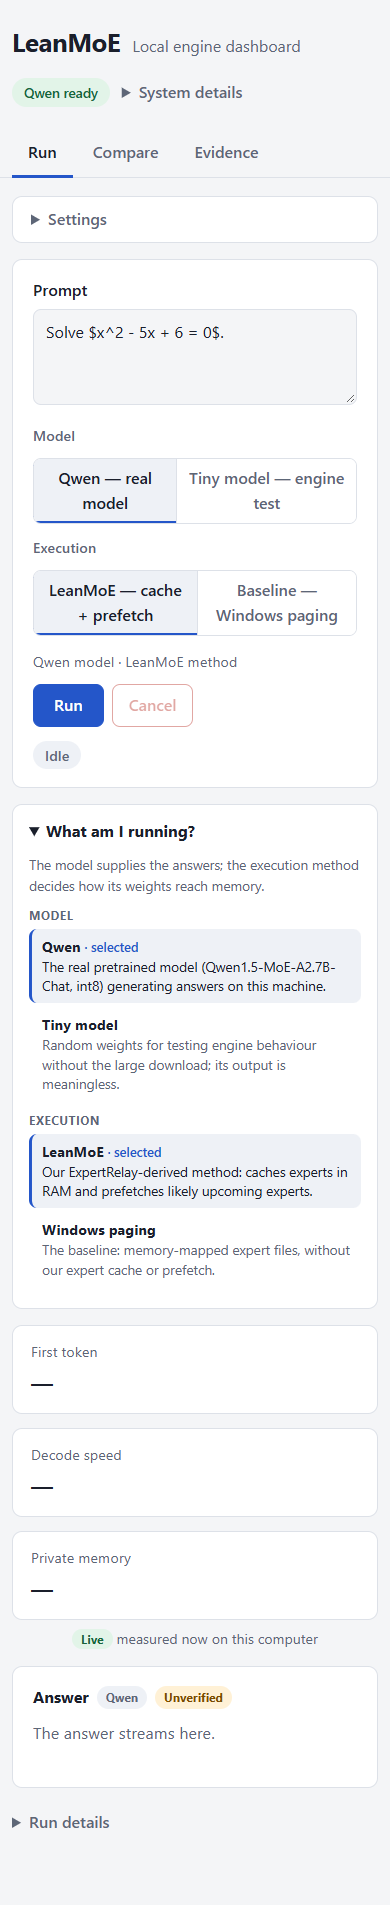
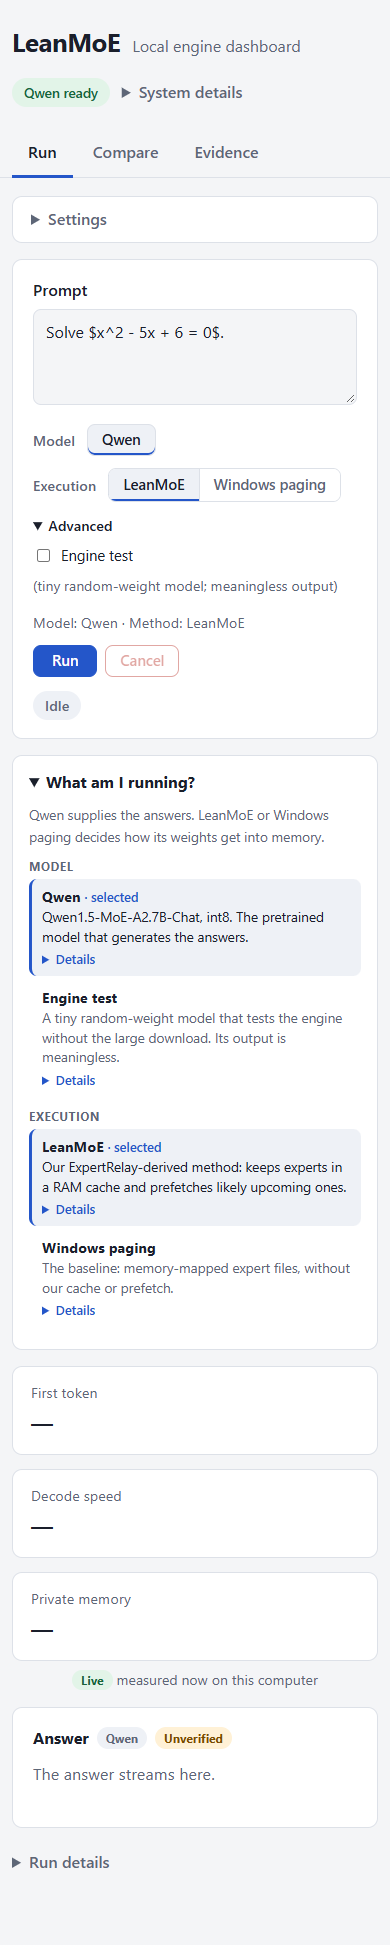
Dashboard: simpler controls; engine test under Advanced; no silent model switch
- Model shown as 'Qwen'; execution as 'LeanMoE' / 'Windows paging'; compare
  cards and button relabelled; all controls one compact height (32 px).
- The tiny model moved to a collapsed Advanced section as 'Engine test';
  when active the model chip, answer badge and confirmed run line say
  'meaningless output'.
- If Qwen's store is missing: 'Qwen not installed' with setup instructions
  and an explicit 'Use engine test instead' button; Run/Compare stay disabled
  until a choice is made. No automatic switching.
- 'What am I running?' keeps one short sentence per choice with expandable
  technical details, and highlights the active model and method.
- Fixed: a display rule overrode the hidden attribute, so the notice showed
  even with Qwen installed.
- Checked in Edge on desktop and phone, with and without the store; Qwen and
  engine-test runs, compare, confirmed lines, no console errors. Screenshots
  updated. Inference, server and evidence unchanged; pytest 157 passed.

diff --git a/src/dashboard/static/index.html b/src/dashboard/static/index.html
@@ -48,17 +48,26 @@
         <textarea id="run-prompt" rows="3" maxlength="4000">Solve $x^2 - 5x + 6 = 0$.</textarea>
         <div class="choice">
           <span class="choice-label">Model</span>
-          <div class="segmented" role="radiogroup" aria-label="Model">
-            <button type="button" role="radio" data-group="source" data-value="real" aria-checked="true">Qwen — real model</button>
-            <button type="button" role="radio" data-group="source" data-value="synthetic" aria-checked="false">Tiny model — engine test</button>
-          </div>
+          <span class="model-chip" id="run-model-chip">Qwen</span>
         </div>
         <div class="choice">
           <span class="choice-label">Execution</span>
           <div class="segmented" role="radiogroup" aria-label="Execution">
-            <button type="button" role="radio" data-group="mode" data-value="cached" aria-checked="true">LeanMoE — cache + prefetch</button>
-            <button type="button" role="radio" data-group="mode" data-value="mmap" aria-checked="false">Baseline — Windows paging</button>
+            <button type="button" role="radio" data-group="mode" data-value="cached" aria-checked="true">LeanMoE</button>
+            <button type="button" role="radio" data-group="mode" data-value="mmap" aria-checked="false">Windows paging</button>
           </div>
+        </div>
+        <details class="details compact advanced" id="run-advanced">
+          <summary>Advanced</summary>
+          <label class="check"><input type="checkbox" id="run-engine-test"> <span class="nowrap">Engine test</span> <span class="hint">(tiny random-weight model; meaningless output)</span></label>
+        </details>
+        <div class="missing" id="run-missing" hidden>
+          <strong>Qwen not installed</strong>
+          <span>The Qwen model store wasn't found on this computer.</span>
+          <details class="details compact"><summary>How to install it</summary>
+            <p class="hint" id="run-missing-detail"></p>
+          </details>
+          <button type="button" class="secondary small" id="run-use-test">Use engine test instead</button>
         </div>
         <div class="controls">
           <span id="run-selection" class="selection">Model: Qwen · Method: LeanMoE</span>
@@ -72,16 +81,28 @@
 
       <details class="area-aside explain" id="explain" open>
         <summary>What am I running?</summary>
-        <p class="explain-lead">The model supplies the answers; the execution method decides how its weights reach memory.</p>
+        <p class="explain-lead">Qwen supplies the answers. LeanMoE or Windows paging decides how its weights get into memory.</p>
         <div class="explain-group">
           <span class="explain-head">Model</span>
-          <div class="explain-item" data-group="source" data-value="real"><strong>Qwen</strong> The real pretrained model (Qwen1.5-MoE-A2.7B-Chat, int8) generating answers on this machine.</div>
-          <div class="explain-item" data-group="source" data-value="synthetic"><strong>Tiny model</strong> Random weights for testing engine behaviour without the large download; its output is meaningless.</div>
+          <div class="explain-item" data-group="source" data-value="real">
+            <strong>Qwen</strong> Qwen1.5-MoE-A2.7B-Chat, int8. The pretrained model that generates the answers.
+            <details class="more"><summary>Details</summary>A mixture-of-experts model: 24 layers of 60 routed experts, 4 used per token, plus a shared expert. Int8 weights: 14.36 GB on disk. Model by the Qwen team (Tongyi Qianwen license).</details>
+          </div>
+          <div class="explain-item" data-group="source" data-value="synthetic">
+            <strong>Engine test</strong> A tiny random-weight model that tests the engine without the large download. Its output is meaningless.
+            <details class="more"><summary>Details</summary>Built in a temporary folder when first used: 3 layers of 8 experts. It runs the same engine code (store reads, cache, prefetch, cancellation) as Qwen. In Advanced.</details>
+          </div>
         </div>
         <div class="explain-group">
           <span class="explain-head">Execution</span>
-          <div class="explain-item" data-group="mode" data-value="cached"><strong>LeanMoE</strong> Our ExpertRelay-derived method: caches experts in RAM and prefetches likely upcoming experts.</div>
-          <div class="explain-item" data-group="mode" data-value="mmap"><strong>Windows paging</strong> The baseline: memory-mapped expert files, without our expert cache or prefetch.</div>
+          <div class="explain-item" data-group="mode" data-value="cached">
+            <strong>LeanMoE</strong> Our ExpertRelay-derived method: keeps experts in a RAM cache and prefetches likely upcoming ones.
+            <details class="more"><summary>Details</summary>Experts are read from the SSD with unbuffered I/O into a fixed-size cache; a predictor starts reading the next layer's likely experts early. The cache can shrink or grow during a run when the memory budget changes.</details>
+          </div>
+          <div class="explain-item" data-group="mode" data-value="mmap">
+            <strong>Windows paging</strong> The baseline: memory-mapped expert files, without our cache or prefetch.
+            <details class="more"><summary>Details</summary>The whole model file is memory-mapped and Windows loads pages on demand, keeping them in its file cache. Speed depends on what is already cached; private memory is low, physical RAM use can be high.</details>
+          </div>
         </div>
       </details>
 
@@ -130,15 +151,24 @@
       <textarea id="cmp-prompt" rows="3" maxlength="4000">What is the capital of France? Answer in one sentence.</textarea>
       <div class="choice">
         <span class="choice-label">Model</span>
-        <div class="segmented" role="radiogroup" aria-label="Model for comparison">
-          <button type="button" role="radio" data-group="cmp-source" data-value="real" aria-checked="true">Qwen — real model</button>
-          <button type="button" role="radio" data-group="cmp-source" data-value="synthetic" aria-checked="false">Tiny model — engine test</button>
-        </div>
+        <span class="model-chip" id="cmp-model-chip">Qwen</span>
       </div>
+      <details class="details compact advanced" id="cmp-advanced">
+          <summary>Advanced</summary>
+          <label class="check"><input type="checkbox" id="cmp-engine-test"> <span class="nowrap">Engine test</span> <span class="hint">(tiny random-weight model; meaningless output)</span></label>
+        </details>
+        <div class="missing" id="cmp-missing" hidden>
+          <strong>Qwen not installed</strong>
+          <span>The Qwen model store wasn't found on this computer.</span>
+          <details class="details compact"><summary>How to install it</summary>
+            <p class="hint" id="cmp-missing-detail"></p>
+          </details>
+          <button type="button" class="secondary small" id="cmp-use-test">Use engine test instead</button>
+        </div>
       <div class="controls">
-        <span class="selection">Runs LeanMoE, then Windows paging, with the same prompt and settings</span>
+        <span class="selection">LeanMoE, then Windows paging, same prompt and settings</span>
         <div class="actions">
-          <button type="button" id="compare" class="primary">Compare modes</button>
+          <button type="button" id="compare" class="primary">Compare</button>
           <button type="button" id="cmp-cancel" class="ghost" disabled>Cancel</button>
         </div>
       </div>
@@ -153,12 +183,12 @@
 
     <div class="side-by-side">
       <div class="card answer" data-run="cached">
-        <div class="answer-head"><strong>LeanMoE — cache + prefetch</strong><span class="badge live">Live</span><span class="badge warn">Unverified</span></div>
+        <div class="answer-head"><strong>LeanMoE</strong><span class="badge live">Live</span><span class="badge warn">Unverified</span></div>
         <div class="mini-metrics"><span>First token <b class="v-ttft">—</b></span><span>Decode <b class="v-decode">—</b></span><span>Private peak <b class="v-mem">—</b></span></div>
         <div class="answer-text"><span class="placeholder">Not run yet.</span></div>
       </div>
       <div class="card answer" data-run="mmap">
-        <div class="answer-head"><strong>Baseline — Windows paging</strong><span class="badge live">Live</span><span class="badge warn">Unverified</span></div>
+        <div class="answer-head"><strong>Windows paging</strong><span class="badge live">Live</span><span class="badge warn">Unverified</span></div>
         <div class="mini-metrics"><span>First token <b class="v-ttft">—</b></span><span>Decode <b class="v-decode">—</b></span><span>Private peak <b class="v-mem">—</b></span></div>
         <div class="answer-text"><span class="placeholder">Not run yet.</span></div>
       </div>

diff --git a/src/dashboard/static/app.js b/src/dashboard/static/app.js
@@ -7,7 +7,7 @@
   const $ = (id) => document.getElementById(id);
   const fmt = (v, d = 2) => (v === null || v === undefined || Number.isNaN(Number(v))) ? "—" : Number(v).toFixed(d);
   const pick = { source: "real", mode: "cached", "cmp-source": "real" };
-  const ui = { status: null, run: null, cmp: null };
+  const ui = { status: null, run: null, cmp: null, qwenMissing: false, busy: false };
 
   // ------------------------------------------------------------ small helpers
 
@@ -106,21 +106,47 @@
     });
   });
 
-  const SOURCE_SHORT = { real: "Qwen", synthetic: "Tiny model" };
+  const SOURCE_SHORT = { real: "Qwen", synthetic: "Engine test" };
   const MODE_SHORT = { cached: "LeanMoE", mmap: "Windows paging" };
-  const SOURCE_LONG = { real: "Qwen — real model (Qwen1.5-MoE-A2.7B-Chat, int8)", synthetic: "Tiny model — engine test (random weights)" };
-  const MODE_LONG = { cached: "LeanMoE — cache + prefetch", mmap: "Baseline — Windows paging (memory-mapped)" };
+  const SOURCE_LONG = { real: "Qwen (Qwen1.5-MoE-A2.7B-Chat, int8)", synthetic: "Engine test (tiny random-weight model; meaningless output)" };
+  const MODE_LONG = { cached: "LeanMoE (expert cache + prefetch)", mmap: "Windows paging (memory-mapped baseline)" };
 
+  // The model is Qwen unless "Engine test" is ticked under Advanced. Nothing switches it automatically.
   function updateSelection() {
+    for (const [p, key] of [["run", "source"], ["cmp", "cmp-source"]]) {
+      const test = $(p + "-engine-test").checked;
+      pick[key] = test ? "synthetic" : "real";
+      const chip = $(p + "-model-chip");
+      chip.textContent = test ? "Engine test · meaningless output" : "Qwen";
+      chip.className = "model-chip" + (test ? " test" : (ui.qwenMissing ? " unavailable" : ""));
+      $(p + "-missing").hidden = !(ui.qwenMissing && !test);
+    }
     const b = $("run-source-badge");
     const syn = pick.source === "synthetic";
-    b.textContent = syn ? "Tiny model: meaningless output" : "Qwen";
+    b.textContent = syn ? "Engine test: meaningless output" : "Qwen";
     b.className = "badge" + (syn ? " synthetic" : "");
     $("run-selection").textContent = `Model: ${SOURCE_SHORT[pick.source]} · Method: ${MODE_SHORT[pick.mode]}`;
     document.querySelectorAll(".explain-item").forEach((it) => {
       const on = pick[it.dataset.group] === it.dataset.value;
       it.classList.toggle("selected", on);
       if (on) it.setAttribute("aria-current", "true"); else it.removeAttribute("aria-current");
+    });
+    refreshButtons();
+  }
+
+  function refreshButtons() {
+    const runBlocked = ui.qwenMissing && pick.source === "real";
+    const cmpBlocked = ui.qwenMissing && pick["cmp-source"] === "real";
+    $("run").disabled = ui.busy || runBlocked;
+    $("compare").disabled = ui.busy || cmpBlocked;
+  }
+
+  for (const p of ["run", "cmp"]) {
+    $(p + "-engine-test").addEventListener("change", updateSelection);
+    $(p + "-use-test").addEventListener("click", () => {
+      $(p + "-engine-test").checked = true;
+      $(p + "-advanced").open = true;
+      updateSelection();
     });
   }
 
@@ -138,13 +164,11 @@
     }
     ui.status = s;
     const ok = s.real_store.available;
-    $("store-pill").textContent = ok ? "Qwen ready" : "Qwen not configured: tiny model only";
+    $("store-pill").textContent = ok ? "Qwen ready" : "Qwen not installed";
     $("store-pill").className = "pill " + (ok ? "ok" : "no");
-    for (const g of ["source", "cmp-source"]) {
-      const real = document.querySelector(`.segmented button[data-group="${g}"][data-value="real"]`);
-      real.disabled = !ok;
-      if (!ok && pick[g] === "real") document.querySelector(`.segmented button[data-group="${g}"][data-value="synthetic"]`).click();
-    }
+    ui.qwenMissing = !ok;
+    for (const p of ["run", "cmp"]) $(p + "-missing-detail").textContent = ok ? "" : s.real_store.problem;
+    updateSelection();
     $("max-seq").textContent = s.limits.max_seq;
     setKV($("system-details"), [
       ["Qwen model store", ok ? s.real_store.path : "not available"],
@@ -195,7 +219,7 @@
     $("run-confirm").hidden = true; $("run-confirm").textContent = "";
     $("budget-card").hidden = true; $("budget-msg").textContent = ""; $("budget-cache").textContent = "Cache: —";
     setState("run-state", "Starting…", "busy");
-    $("run").disabled = true; $("compare").disabled = true;
+    ui.busy = true; refreshButtons();
     let resp;
     try {
       resp = await fetch("/api/generate", { method: "POST", headers: { "Content-Type": "application/json" },
@@ -213,7 +237,7 @@
 
   function endRun(errorText) {
     if (errorText) { setError("run-error", errorText); setState("run-state", "Idle", "idle"); }
-    $("run").disabled = false; $("compare").disabled = false; $("run-cancel").disabled = true;
+    ui.busy = false; refreshButtons(); $("run-cancel").disabled = true;
     $("budget-card").hidden = true;
     if (ui.run) ui.run.requestId = null;
     loadStatus();
@@ -366,7 +390,7 @@
     $("cmp-match").hidden = true; setKV($("cmp-details"), []);
     $("cmp-confirm").hidden = true; $("cmp-confirm").textContent = "";
     setState("cmp-state", "Starting…", "busy");
-    $("compare").disabled = true; $("run").disabled = true;
+    ui.busy = true; refreshButtons();
     let resp;
     try {
       resp = await fetch("/api/compare", { method: "POST", headers: { "Content-Type": "application/json" },
@@ -384,7 +408,7 @@
 
   function endCompare(errorText) {
     if (errorText) { setError("cmp-error", errorText); setState("cmp-state", "Idle", "idle"); }
-    $("compare").disabled = false; $("run").disabled = false; $("cmp-cancel").disabled = true;
+    ui.busy = false; refreshButtons(); $("cmp-cancel").disabled = true;
     if (ui.cmp) ui.cmp.requestId = null;
     loadStatus();
   }

diff --git a/src/dashboard/static/style.css b/src/dashboard/static/style.css
@@ -15,6 +15,7 @@
   }
 }
 * { box-sizing: border-box; }
+[hidden] { display: none !important; }  /* never let a display rule override hidden */
 body { margin: 0; background: var(--bg); color: var(--text); font: 16px/1.55 "Segoe UI", system-ui, sans-serif; }
 .top, .tabs, main { max-width: 980px; margin: 0 auto; padding-left: 20px; padding-right: 20px; }
 .top { display: flex; flex-wrap: wrap; align-items: center; justify-content: space-between; gap: 12px; padding-top: 22px; }
@@ -151,3 +152,25 @@ a { color: var(--accent); }
   .explain { position: static; margin-bottom: 16px; }
   .choice-label { width: auto; }
 }
+
+/* ---- compact controls (one height for buttons, segmented options and chips) ---- */
+.primary, .ghost, .secondary, .segmented button, .model-chip { font-size: 0.92rem; line-height: 1.2; padding: 6px 14px; min-height: 32px; }
+.primary { padding: 6px 18px; }
+.primary.small, .secondary.small { padding: 4px 12px; min-height: 28px; font-size: 0.88rem; }
+.secondary { background: var(--surface); color: var(--accent); border: 1px solid var(--accent); border-radius: 8px; font-weight: 600; }
+.model-chip { display: inline-flex; align-items: center; border: 1px solid var(--line); border-radius: 8px; background: var(--soft); font-weight: 600; box-shadow: inset 0 -2px 0 var(--accent); }
+.model-chip.test { background: var(--syn-bg); color: var(--syn); box-shadow: inset 0 -2px 0 var(--syn); }
+.model-chip.unavailable { box-shadow: none; color: var(--muted); text-decoration: line-through; }
+.details.compact { margin: 10px 0 0; }
+.details.compact > summary { font-size: 0.9rem; padding: 2px 0; }
+.check { display: flex; align-items: center; gap: 8px; margin: 6px 0 2px; font-size: 0.92rem; color: var(--text); }
+.check .hint { margin: 0; }
+.missing { display: flex; flex-wrap: wrap; align-items: center; gap: 6px 12px; margin-top: 12px; padding: 10px 12px; border-radius: 8px; background: var(--warn-bg); color: var(--warn); font-size: 0.9rem; }
+.missing strong { color: var(--err); }
+.missing .details.compact { flex-basis: 100%; margin: 0; }
+.missing .details.compact .hint { color: var(--warn); }
+.explain-item .more { margin-top: 4px; }
+.explain-item .more > summary { cursor: pointer; font-size: 0.8rem; color: var(--accent); font-weight: 600; }
+.explain-item .more { font-size: 0.8rem; color: var(--muted); }
+.nowrap { white-space: nowrap; }
+.check { flex-wrap: wrap; }

diff --git a/README.md b/README.md
@@ -72,11 +72,11 @@ powershell -NoProfile -ExecutionPolicy Bypass -File scripts\dashboard.ps1
 
 It opens http://127.0.0.1:8770 in the default browser and listens on this computer only (127.0.0.1; there is no option to expose it). Stop it with Ctrl+C in the PowerShell window. Add `-Port 8771` if 8770 is taken, or `-NoOpen` to skip opening the browser. The script uses the `.venv` folder (with a dot) that `setup.ps1` creates and stops with a clear message if it is missing. The equivalent direct command is `.\.venv\Scripts\python.exe -m src.dashboard --open`.
 
-- **Run:** a prompt and two choices. **Model:** *Qwen — real model* (the pretrained model that generates the answers) or *Tiny model — engine test* (random weights; meaningless output, no download needed). **Execution:** *LeanMoE — cache + prefetch* (the ExpertRelay-derived inference method) or *Baseline — Windows paging* (memory-mapped expert files without our cache or prefetch). A "What am I running?" panel explains the four choices and highlights the selected ones. After the server starts a run, a line confirms what it is running (for example "Live engine run · Qwen · LeanMoE"); the answer streams with three live figures (first-token time, decode speed, private memory). During a Qwen + LeanMoE run a memory-budget slider changes the budget for that run. Run details show the request ID, the submitted prompt, the configuration, token counts, stop reason and measured timings, and the run record can be downloaded as JSON (no local paths).
+- **Run:** a prompt, the model (**Qwen**: Qwen1.5-MoE-A2.7B-Chat, int8, which generates the answers) and the execution method (**LeanMoE**: the ExpertRelay-derived expert cache and prefetch; or **Windows paging**: the memory-mapped baseline without that cache or prefetch). A collapsed Advanced section offers **Engine test**, a tiny random-weight model whose output is meaningless and is labelled so wherever it appears. A "What am I running?" panel explains each choice in a sentence, with technical details expandable, and highlights the active ones. After the server starts a run, a line confirms what it is running (for example "Live engine run · Qwen · LeanMoE"); the answer streams with three live figures (first-token time, decode speed, private memory). During a Qwen + LeanMoE run a memory-budget slider changes the budget for that run. Run details show the request ID, the submitted prompt, the configuration, token counts, stop reason and measured timings, and the run record can be downloaded as JSON (no local paths).
 - **Compare:** the same prompt and settings with LeanMoE, then Windows paging, with each run's progress, side-by-side results and whether the generated tokens match. One run of each is not a benchmark; the Details panel says why.
 - **Evidence:** the recorded benchmark figures, read from the committed result files and labelled as recorded, with links to the files, and the test command.
 
-Without the model store it still opens and offers the **Tiny model** (random weights; its output is meaningless token ids and is labelled as such). For the real model, set `$env:LEANMOE_MODELS_ROOT` (see Path 2) in the same window before starting it. One run at a time. A run's first forward pass (prefill, about 6 to 10 s on the real model) can't be interrupted, so a cancel during it takes effect when it ends, and the page says so. Equations are typeset with KaTeX, bundled in the repository (MIT license), with untrusted commands disabled.
+Without the Qwen store it shows **Qwen not installed** with setup instructions and an explicit **Use engine test instead** button; it never switches models on its own. For the real model, set `$env:LEANMOE_MODELS_ROOT` (see Path 2) in the same window before starting it. One run at a time. A run's first forward pass (prefill, about 6 to 10 s on the real model) can't be interrupted, so a cancel during it takes effect when it ends, and the page says so. Equations are typeset with KaTeX, bundled in the repository (MIT license), with untrusted commands disabled.
 
 Screenshots from the browser check: [run with a budget change](docs/screenshots/run-budget-change.png), [an equation answer](docs/screenshots/run-equation-answer.png), [comparison](docs/screenshots/compare.png), [evidence](docs/screenshots/evidence.png), [phone width](docs/screenshots/phone.png).
 

diff --git a/DECISIONS.md b/DECISIONS.md
@@ -97,7 +97,7 @@ Each entry: **Decision** (what was chosen), **Why**, **Rejected** (what wasn't, 
 **Why:** The first page put every figure and caveat on one screen. Reviewers need the result first and the qualifications one click away, never removed.
 **Evidence:** The page was driven in Microsoft Edge with Playwright (from a scratch environment, not a project dependency) against the real model: tabs, settings, synthetic run, streaming, KaTeX equations in an answer, a live budget change (138 to 34 experts), cancel during prefill (stopped 5.8 s later, after prefill), a comparison with matching tokens, and phone width. It found a horizontal overflow at phone width and a missing favicon request; both fixed and rechecked (no overflow on any tab at 390 or 1280 px, no console errors). Screenshots are in docs/screenshots. The model's quadratic answer in that run was wrong ((x - 6)(x - 1)), shown as generated.
 **Rejected:** Progress percentages (the engine reports no meaningful fraction of work done). Hiding limitations to simplify the page.
-**Follow-up:** Choices renamed to say who supplies what: Model (*Qwen — real model*, *Tiny model — engine test*) and Execution (*LeanMoE — cache + prefetch*, *Baseline — Windows paging*), with a "What am I running?" panel that highlights the selection. The server now echoes the submitted prompt and settings in its start event, so the page's confirmed-run line, Run details and downloadable run record come from the server, not from the form; a test checks that no local path appears in the events. Checked again in Edge with Qwen and the tiny model.
+**Follow-up:** Choices renamed to say who supplies what: Model (*Qwen — real model*, *Tiny model — engine test*) and Execution (*LeanMoE — cache + prefetch*, *Baseline — Windows paging*), with a "What am I running?" panel that highlights the selection. The server now echoes the submitted prompt and settings in its start event, so the page's confirmed-run line, Run details and downloadable run record come from the server, not from the form; a test checks that no local path appears in the events. Checked again in Edge with Qwen and the tiny model. Then simplified: model shown as **Qwen**, execution as **LeanMoE** / **Windows paging**, the tiny model moved to a collapsed Advanced section as **Engine test**, all controls one height (32 px), and a missing Qwen store shown as "Qwen not installed" with an explicit engine-test option instead of a silent switch. Checked in Edge on desktop and phone, with and without the store; a CSS rule that let `display: flex` override the `hidden` attribute (the notice showed even with Qwen installed) was found and fixed.
 
 ## Repository cleanup
 **Decision:** Remove `test_load.py`, CONTRACT.md (its layout and rules now live in the README and results/EVIDENCE.md) and empty placeholder files; consolidate result details into results/EVIDENCE.md; keep every result file, including the earlier pair made before the accounting correction and the noisy exploratory prefetch run.
